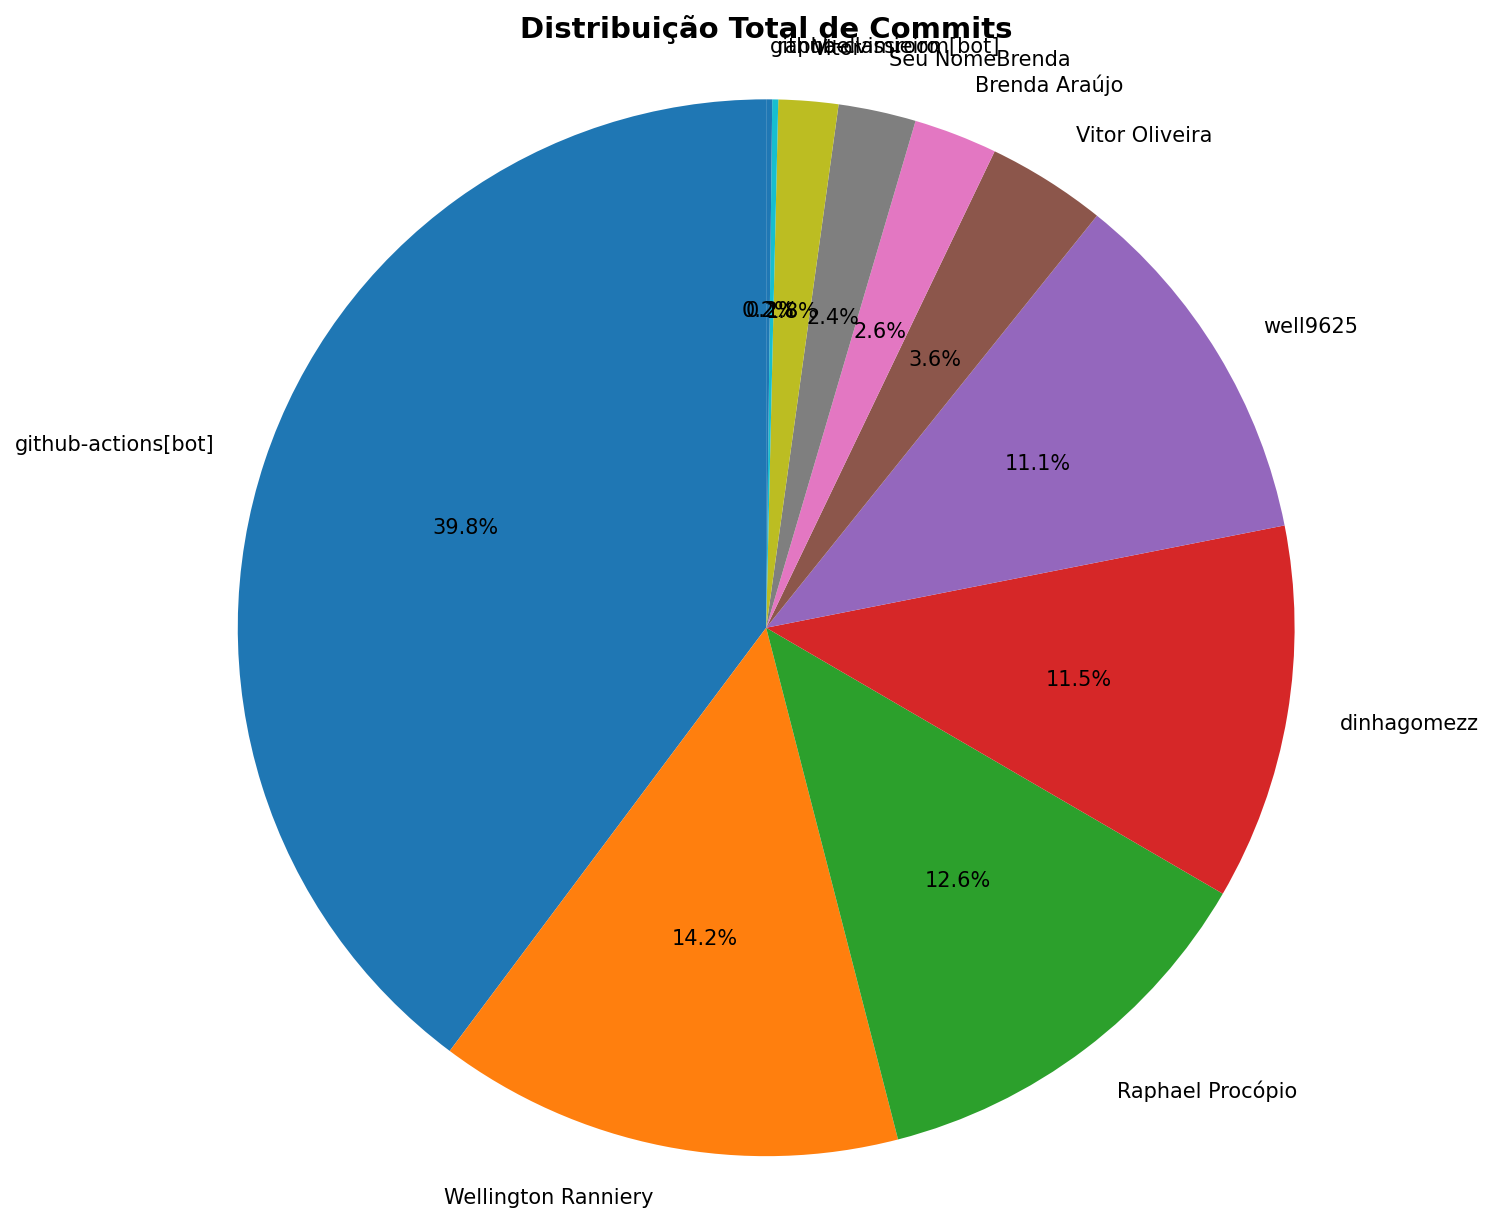
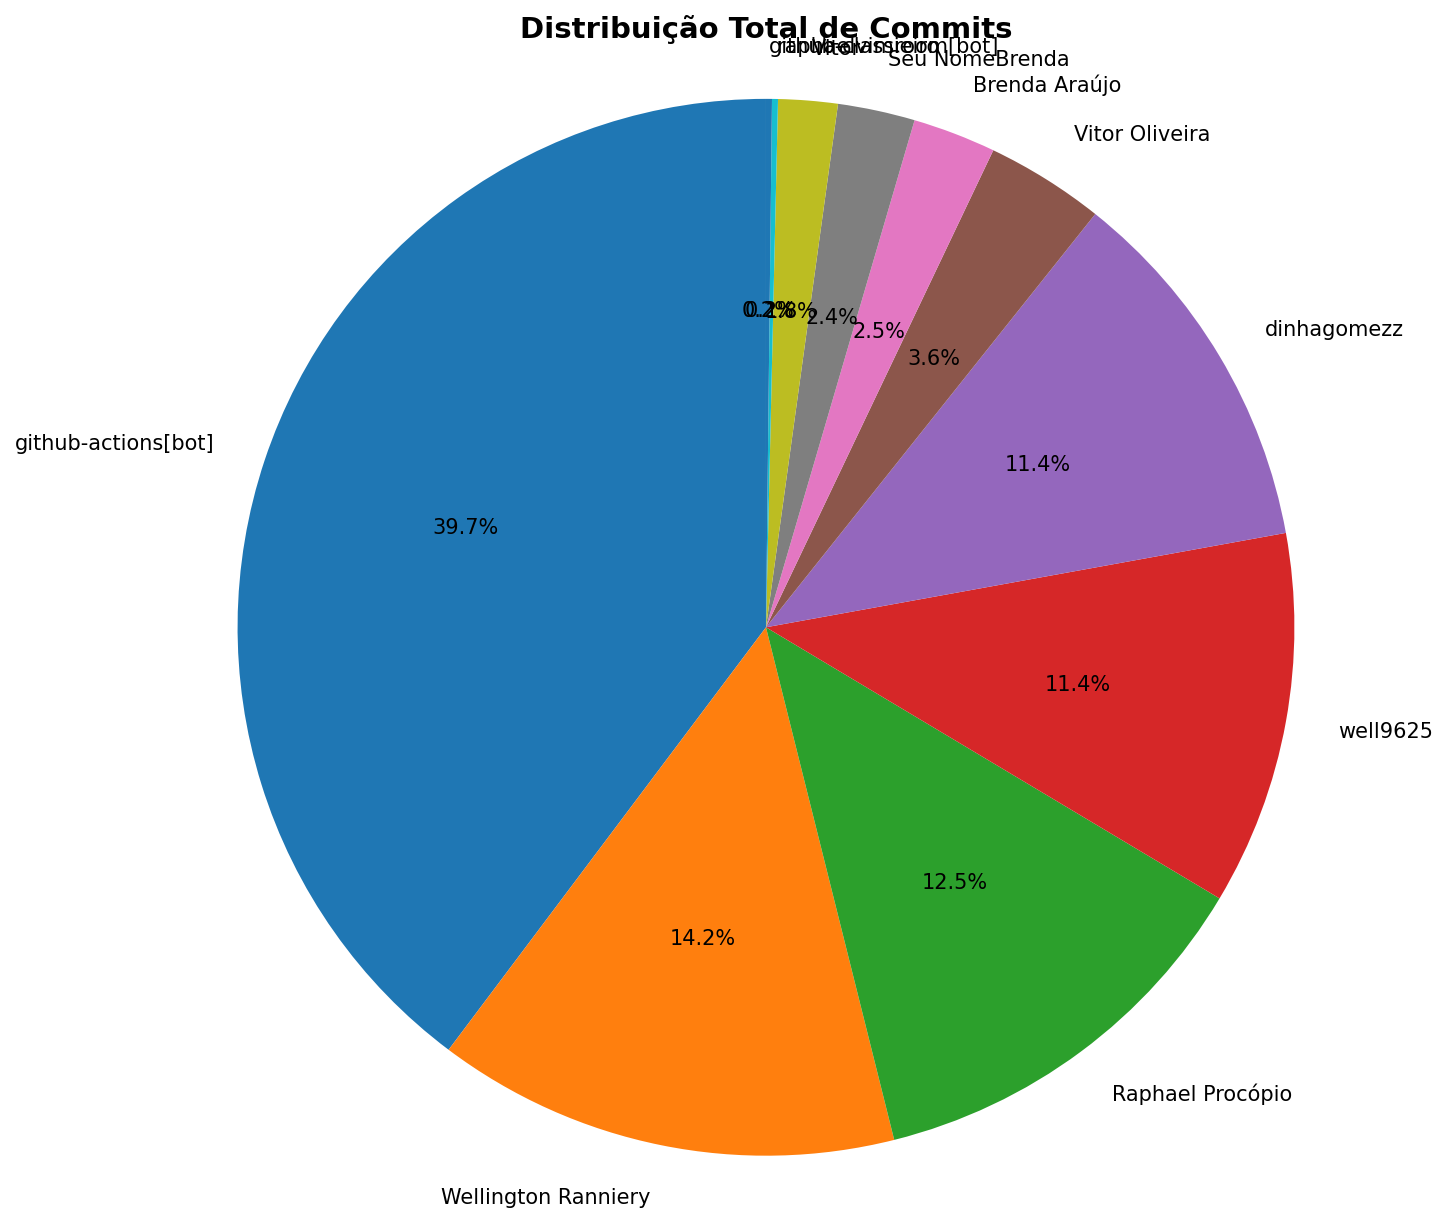
📊 Atualizar relatório de contribuições [skip ci]

diff --git a/documentos/CONTRIBUTION_REPORT.md b/documentos/CONTRIBUTION_REPORT.md
@@ -1,6 +1,6 @@
 # 📊 Relatório de Contribuições do Projeto
 
-**Última atualização:** 28/05/2026 22:45
+**Última atualização:** 28/05/2026 23:25
 
 ---
 
@@ -15,29 +15,29 @@
 | Vitor Oliveira        |        20 |        82 |        50 |          3 |             19 |               1 |
 | Wellington Ranniery   |        78 |      3979 |      1266 |         54 |             29 |               2 |
 | dinhagomezz           |        63 |      2124 |       874 |         44 |              8 |               1 |
-| github-actions[bot]   |       218 |      1196 |      1124 |          3 |            218 |               1 |
+| github-actions[bot]   |       219 |      1202 |      1130 |          3 |            219 |               1 |
 | github-classroom[bot] |         1 |       774 |         0 |         19 |              1 |               3 |
 | raphaelvimieiro       |         1 |       188 |         1 |          1 |              0 |               0 |
-| well9625              |        61 |      6102 |      7772 |         39 |              0 |               0 |
+| well9625              |        63 |      6157 |      7778 |         39 |              0 |               0 |
 
 
 ## 📅 Contribuições Semanais (Todo o Semestre)
 
-**2026-05-21**: Brenda Araújo: 6, Vitor: 1, github-actions[bot]: 23, raphaelvimieiro: 1, well9625: 35
+**2026-05-21**: Brenda Araújo: 6, Vitor: 1, github-actions[bot]: 24, raphaelvimieiro: 1, well9625: 37
 
 **2026-05-14**: Brenda Araújo: 4, Vitor: 3, github-actions[bot]: 7
 
-**2026-05-07**: Brenda Araújo: 2, Raphael Procópio: 31, Seu NomeBrenda: 3, Vitor: 1, Vitor Oliveira: 3, Wellington Ranniery: 10, dinhagomezz: 7, github-actions[bot]: 54, well9625: 16
+**2026-05-07**: Brenda Araújo: 2, Raphael Procópio: 30, Seu NomeBrenda: 3, Vitor: 1, Vitor Oliveira: 3, Wellington Ranniery: 10, dinhagomezz: 7, github-actions[bot]: 53, well9625: 16
 
-**2026-04-30**: Brenda Araújo: 1, Raphael Procópio: 11, Seu NomeBrenda: 5, Vitor: 4, Vitor Oliveira: 9, Wellington Ranniery: 23, dinhagomezz: 19, github-actions[bot]: 48, well9625: 9
+**2026-04-30**: Brenda Araújo: 1, Raphael Procópio: 12, Seu NomeBrenda: 5, Vitor: 4, Vitor Oliveira: 9, Wellington Ranniery: 23, dinhagomezz: 19, github-actions[bot]: 49, well9625: 9
 
 **2026-04-23**: Brenda Araújo: 1, Raphael Procópio: 7, Seu NomeBrenda: 5, Vitor: 1, Wellington Ranniery: 6, dinhagomezz: 20, github-actions[bot]: 22, well9625: 1
 
 **2026-04-16**: Raphael Procópio: 9, Wellington Ranniery: 10, dinhagomezz: 9, github-actions[bot]: 16
 
-**2026-04-09**: Raphael Procópio: 5, Wellington Ranniery: 10, github-actions[bot]: 13
+**2026-04-09**: Raphael Procópio: 2, Wellington Ranniery: 10, github-actions[bot]: 10
 
-**2026-04-02**: Raphael Procópio: 6, Vitor Oliveira: 2, Wellington Ranniery: 19, dinhagomezz: 8, github-actions[bot]: 33
+**2026-04-02**: Raphael Procópio: 9, Vitor Oliveira: 2, Wellington Ranniery: 19, dinhagomezz: 8, github-actions[bot]: 36
 
 **2026-03-26**: Vitor Oliveira: 1, github-actions[bot]: 1
 
